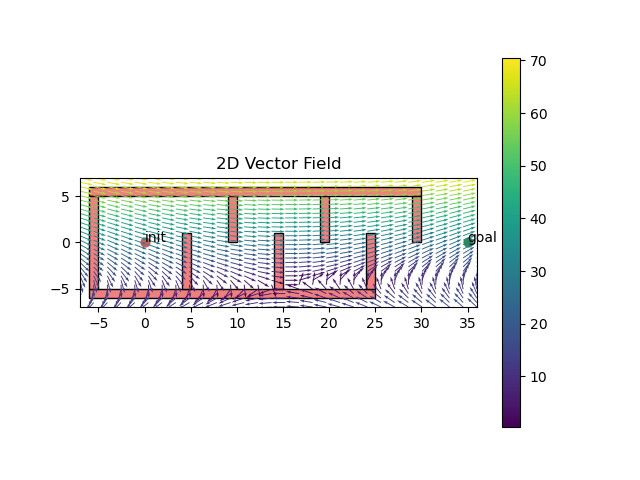
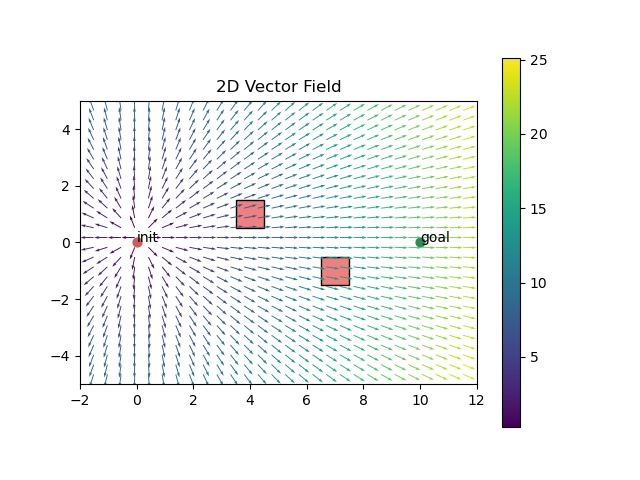
Best form yet all FINAL need to change potential plotter

diff --git a/ws/hw5/MyGDAlgorithm.cpp b/ws/hw5/MyGDAlgorithm.cpp
@@ -3,6 +3,40 @@
 #include <limits>
 #include "HelpfulClass.h"
 
+// Helper to find centroid
+Eigen::Vector2d getCentroid(const std::vector<Eigen::Vector2d>& vertices) {
+    if (vertices.empty()) {
+        return Eigen::Vector2d(0.0, 0.0);
+    }
+    
+    double signed_area = 0.0;
+    Eigen::Vector2d centroid(0.0, 0.0);
+    
+    for (size_t i = 0; i < vertices.size(); ++i) {
+        const Eigen::Vector2d& p0 = vertices[i];
+        const Eigen::Vector2d& p1 = vertices[(i + 1) % vertices.size()];
+        
+        double cross_product = p0.x() * p1.y() - p1.x() * p0.y();
+        signed_area += cross_product;
+        centroid.x() += (p0.x() + p1.x()) * cross_product;
+        centroid.y() += (p0.y() + p1.y()) * cross_product;
+    }
+
+    if (std::abs(signed_area) < 1e-9) {
+        Eigen::Vector2d sum(0.0, 0.0);
+        for(const auto& v : vertices) {
+            sum += v;
+        }
+        return sum / vertices.size();
+    }
+    
+    signed_area *= 0.5;
+    centroid /= (6.0 * signed_area);
+    
+    return centroid;
+}
+
+
 amp::Path2D MyGDAlgorithm::plan(const amp::Problem2D& problem) {
     amp::Path2D path;
     path.waypoints.push_back(problem.q_init);
@@ -28,7 +62,7 @@ amp::Path2D MyGDAlgorithm::plan(const amp::Problem2D& problem) {
         // Repulsive Gradient
         Eigen::Vector2d grad_repulsive(0.0, 0.0);
         for (const amp::Obstacle2D& obstacle : problem.obstacles) {
-            Eigen::Vector2d closest_point_on_obstacle;
+            Eigen::Vector2d closest_point_on_obstacle; 
             double min_dist_sq = std::numeric_limits<double>::max();
             auto vertices = obstacle.verticesCCW();
             if (vertices.empty()) continue;
@@ -50,15 +84,29 @@ amp::Path2D MyGDAlgorithm::plan(const amp::Problem2D& problem) {
             double dist_to_obs = std::sqrt(min_dist_sq);
             
             if (dist_to_obs <= Q_star) {
-                Eigen::Vector2d grad_dist = (q_current - closest_point_on_obstacle).normalized();
+                // Find centroid
+                Eigen::Vector2d centroid = getCentroid(vertices);
+                // Distance between centroid and point
+                Eigen::Vector2d grad_dist = (closest_point_on_obstacle - centroid).normalized();
                 grad_repulsive += eta * (1.0 / Q_star - 1.0 / dist_to_obs) * (1.0 / (dist_to_obs * dist_to_obs)) * grad_dist;
             }
         }
 
-        // Take a Step
+        // Local minma check
         Eigen::Vector2d total_force = -grad_attractive - grad_repulsive;
-        if (total_force.norm() < 1e-6) break;
-        Eigen::Vector2d q_next = q_current + step_size * total_force.normalized();
+        Eigen::Vector2d q_next;
+
+        if (total_force.norm() < 1e-2) {
+            if (grad_repulsive.norm() > 1e-6) {
+                Eigen::Vector2d repulsive_dir = grad_repulsive.normalized();
+                Eigen::Vector2d nudge_dir(-repulsive_dir.y(), repulsive_dir.x());
+                q_next = q_current + step_size * nudge_dir;
+            } else {
+                break;
+            }
+        } else {
+            q_next = q_current + step_size * total_force.normalized();
+        }
 
         // Safety Check
         if (MotionPlanningHelpers::CollisionChecker::isPointInCollision(q_next, problem.obstacles)) {

diff --git a/ws/hw5/main.cpp b/ws/hw5/main.cpp
@@ -21,32 +21,31 @@ amp::Obstacle2D createSquare(double centerX, double centerY, double side_length)
 }
 
 int main(int argc, char** argv) {
-    /* Include this line to have different randomized environments every time you run your code */
     amp::RNG::seed(amp::RNG::randiUnbounded());
 
-    // // Hw5 workspace
-    // Problem2D problem;
-    // problem.q_init = Eigen::Vector2d(0.0, 0.0);
-    // problem.q_goal = Eigen::Vector2d(10.0, 0.0);
-    // problem.x_min = -2.0;
-    // problem.x_max = 12.0;
-    // problem.y_min = -5.0;
-    // problem.y_max = 5.0;
-    // problem.obstacles.push_back(createSquare(4.0, 1.0, 1.0));
-    // problem.obstacles.push_back(createSquare(7.0, -1.0, 1.0));
+    // Hw5 workspace
+    Problem2D problem;
+    problem.q_init = Eigen::Vector2d(0.0, 0.0);
+    problem.q_goal = Eigen::Vector2d(10.0, 0.0);
+    problem.x_min = -2.0;
+    problem.x_max = 12.0;
+    problem.y_min = -5.0;
+    problem.y_max = 5.0;
+    problem.obstacles.push_back(createSquare(4.0, 1.0, 1.0));
+    problem.obstacles.push_back(createSquare(7.0, -1.0, 1.0));
 
     // Random
     double d_star = 5.0; // Goal influence distance
     double zetta  = 20.0;  // Attractive gain
     double Q_star = 1;  // Obstacle influence distance
-    double eta    = 0.1; // Repulsive gain (increased for better obstacle avoidance)
+    double eta    = 0.1; // Repulsive gain 
     MyGDAlgorithm algo(d_star, zetta, Q_star, eta);
 
-    // // Option 2: HW2 Workspace 1 (Uncomment the line below to use)
+    // // Option 2: HW2 Workspace 1 
     // Problem2D problem = HW2::getWorkspace1();
 
-    // Option 3: HW2 Workspace 2 (Uncomment the line below to use)
-    Problem2D problem = HW2::getWorkspace2();
+    // // Option 3: HW2 Workspace 2 
+    // Problem2D problem = HW2::getWorkspace2();
 
     // Run the planner on your chosen problem
     Path2D path = algo.plan(problem);
@@ -58,7 +57,6 @@ int main(int argc, char** argv) {
     Visualizer::makeFigure(MyPotentialFunction{}, problem, 30);
     Visualizer::saveFigures();
     
-    // NOTE: The grader will still run on its own set of random problems for the official test.
     HW5::grade<MyGDAlgorithm>("AllenDevaraj.AugustinPonraj@colorado.edu", argc, argv, d_star, zetta, Q_star, eta);
     return 0;
 }

diff --git a/ws/hw5/MyGDAlgorithm.h b/ws/hw5/MyGDAlgorithm.h
@@ -8,14 +8,13 @@
 
 class MyGDAlgorithm : public amp::GDAlgorithm {
 	public:
-		// Consider defining a class constructor to easily tune parameters, for example: 
+		// Parameters
 		MyGDAlgorithm(double d_star, double zetta, double Q_star, double eta) :
 			d_star(d_star),
 			zetta(zetta),
 			Q_star(Q_star),
 			eta(eta) {}
 
-		// Override this method to solve a given problem.
 		virtual amp::Path2D plan(const amp::Problem2D& problem) override;
 	private:
 		double d_star, zetta, Q_star, eta;
@@ -23,14 +22,13 @@ class MyGDAlgorithm : public amp::GDAlgorithm {
 
 class MyPotentialFunction : public amp::PotentialFunction2D {
     public:
-		// Returns the potential function value (height) for a given 2D point. 
+		// Potential function
         virtual double operator()(const Eigen::Vector2d& q) const override {
             return q[0] * q[0] + q[1] * q[1];
         }
-
 		virtual Eigen::Vector2d getGradient(const Eigen::Vector2d& q) const override {
-    	// The gradient of U = x^2 + y^2 is [2x, 2y]
     		return Eigen::Vector2d(2.0 * q[0], 2.0 * q[1]);
 		}	
 
 };
+

diff --git a/src/public/Visualizer.cpp b/src/public/Visualizer.cpp
@@ -448,8 +448,8 @@ void amp::Visualizer::createAxes(const PotentialFunction2D& potential_function, 
     Eigen::Vector2d upper_right(prob.x_max, prob.y_max);
     Eigen::Vector2d disc_diag = 1.0 / static_cast<double>(n_grid) * (upper_right - lower_left);
 
-    for (std::size_t i = 0; i < n_grid; ++i) {
-        for (std::size_t j = 0; j < n_grid; ++j) {
+    for (std::size_t j = 0; j < n_grid; ++j) {
+        for (std::size_t i = 0; i < n_grid; ++i) {
             Eigen::Vector2d coord = lower_left + Eigen::Vector2d(static_cast<double>(i) * disc_diag[0], static_cast<double>(j) * disc_diag[1]);
             double u = potential_function(coord);
             u = std::min(u, u_max); // Clamp below u_max
